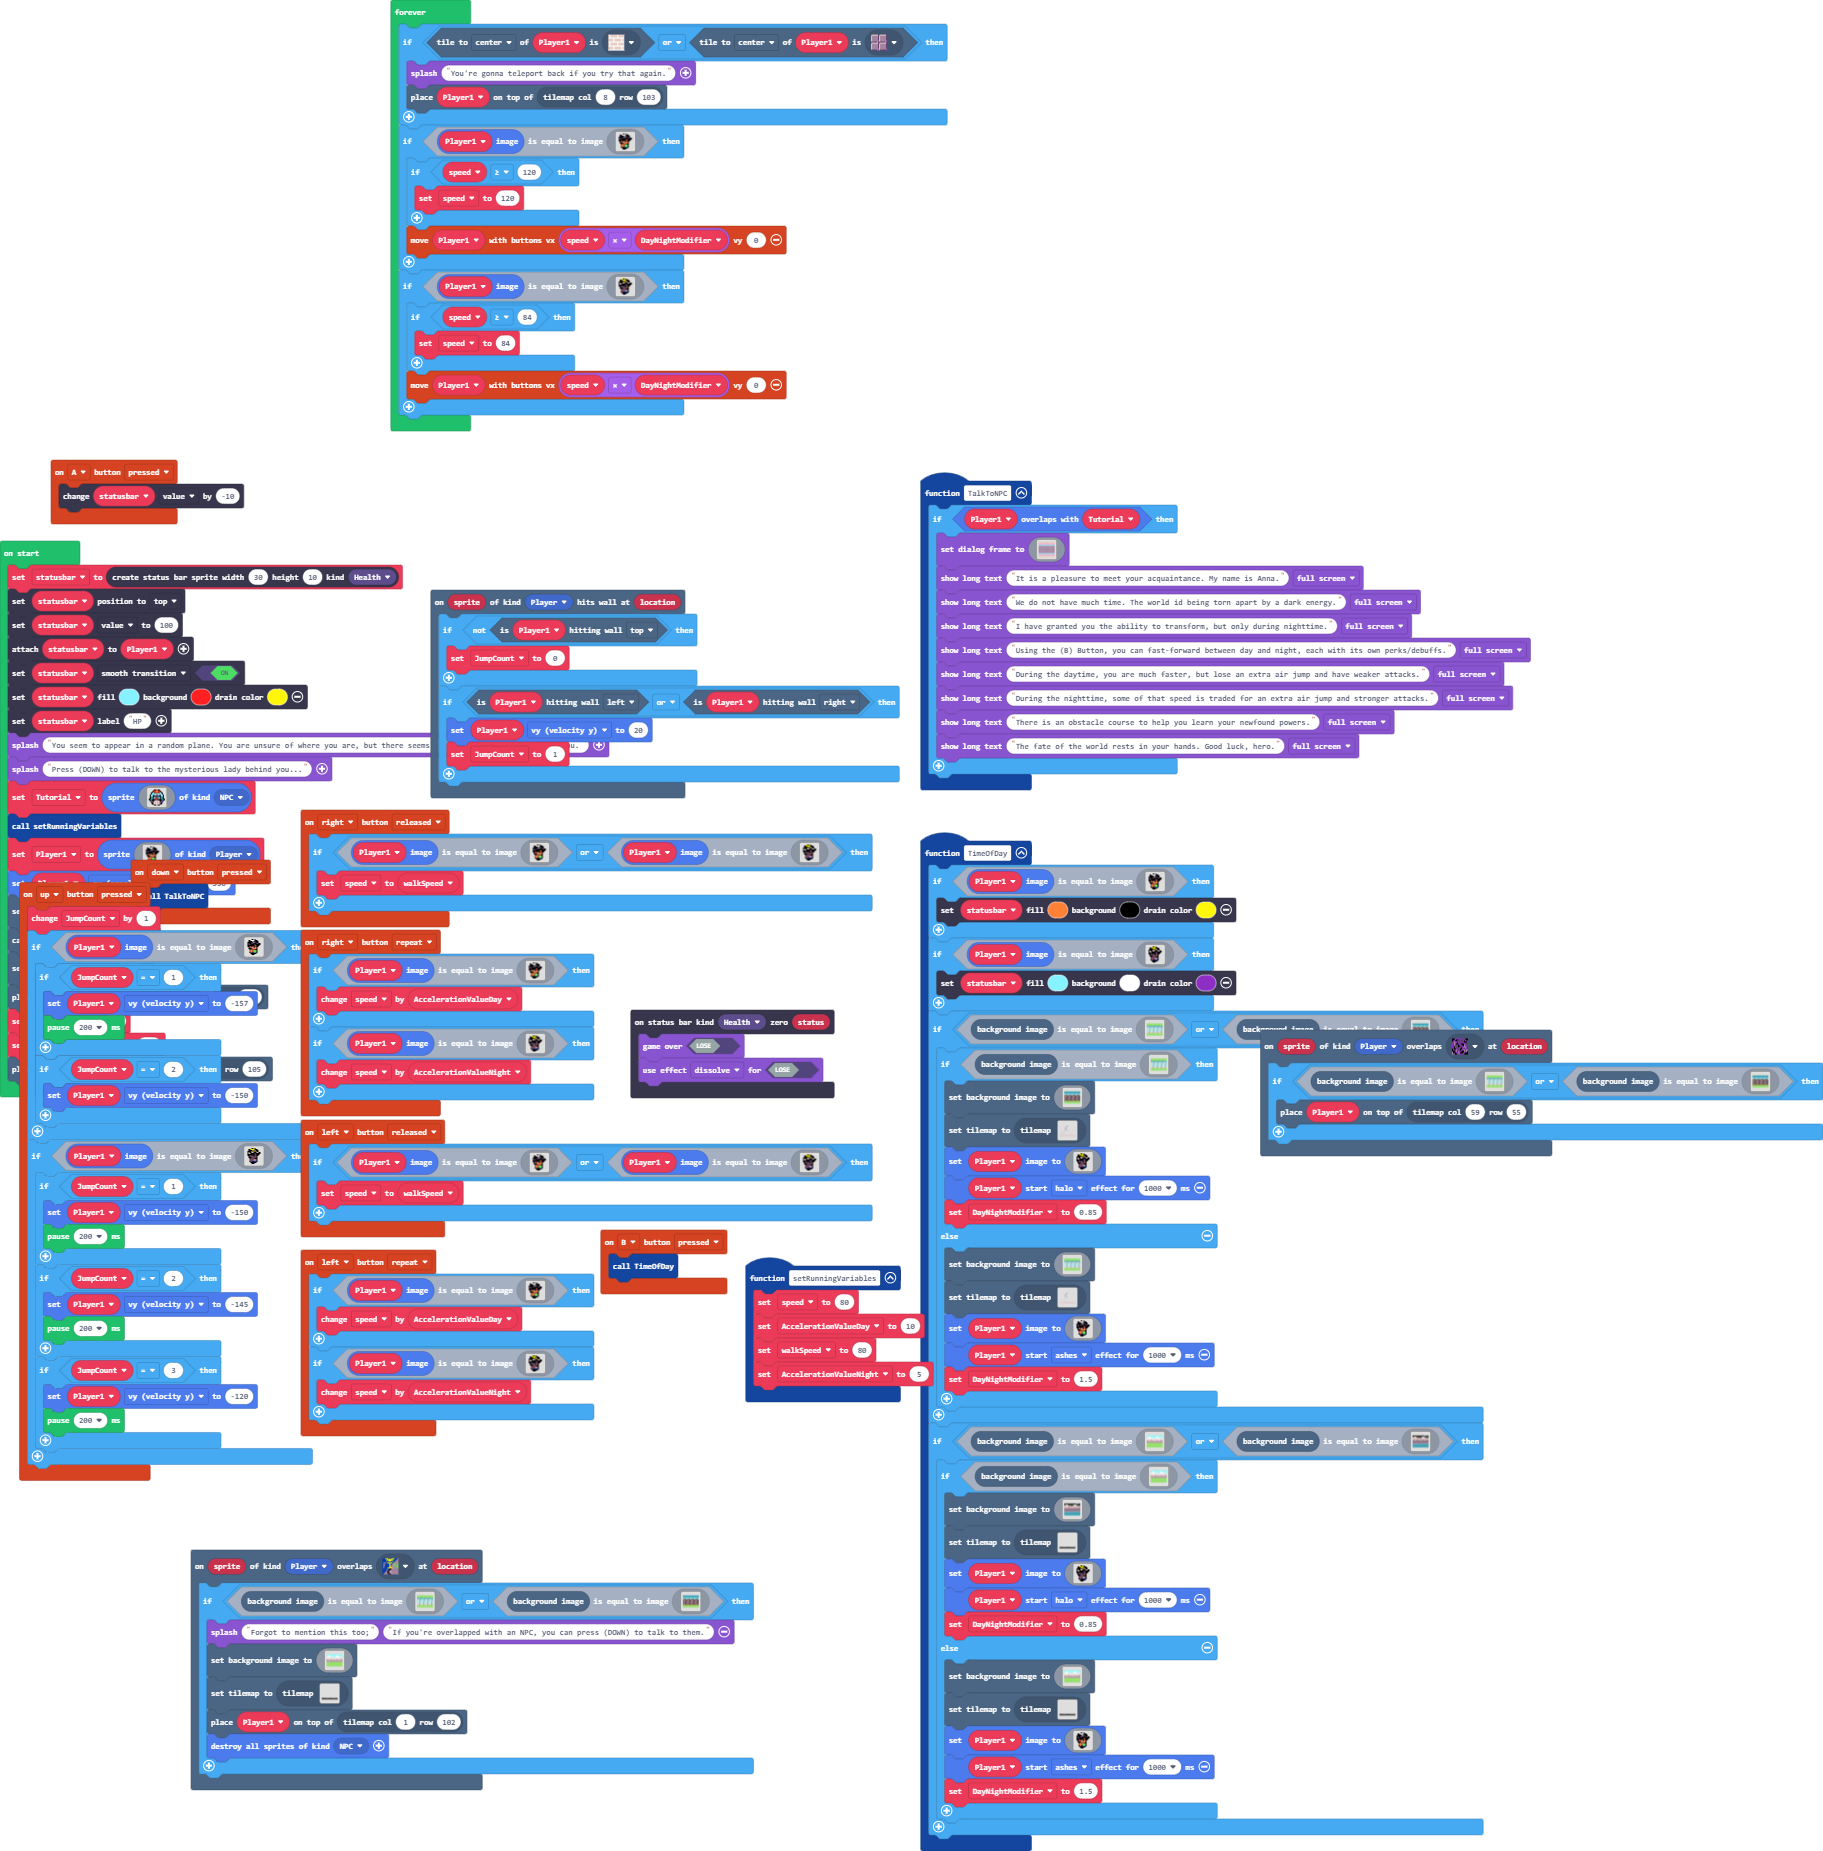
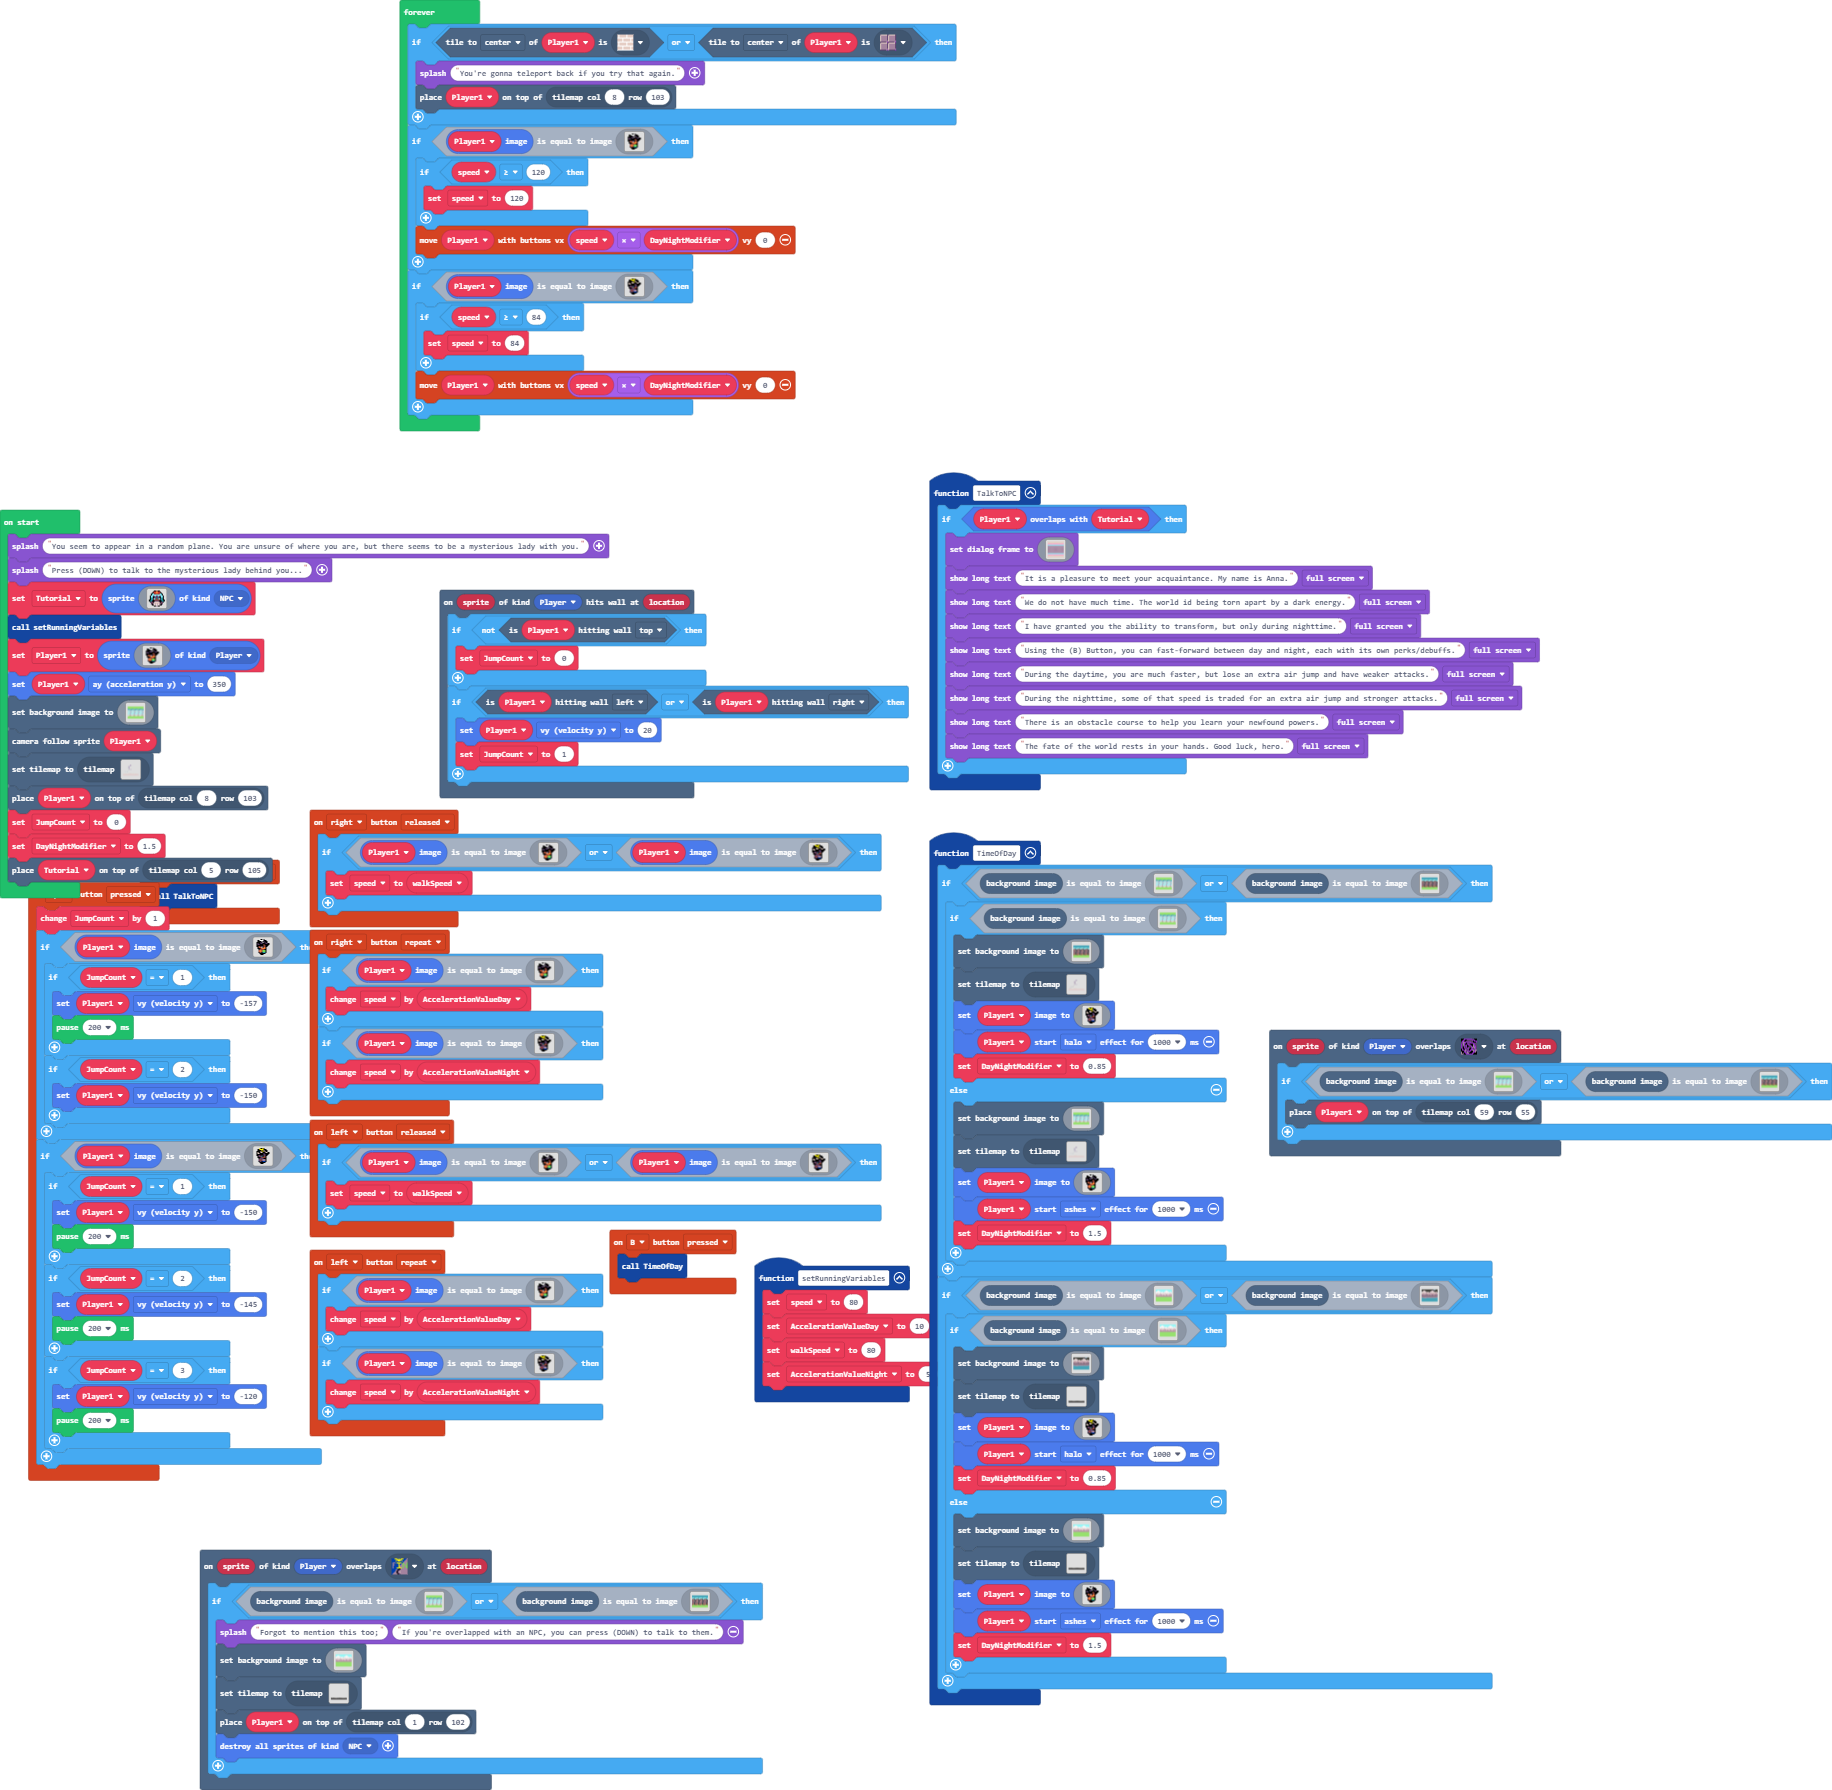
Restore '3/5/2024, 4:12:55 PM Update main.blocks, main.ts, tilemap.g.jres, tilemap.g.ts'

diff --git a/main.ts b/main.ts
@@ -40,12 +40,6 @@ controller.B.onEvent(ControllerButtonEvent.Pressed, function () {
     TimeOfDay()
 })
 function TimeOfDay () {
-    if (Player1.image.equals(assets.image`IdleDay1`)) {
-        statusbar.setColor(4, 15, 5)
-    }
-    if (Player1.image.equals(assets.image`IdleNight1`)) {
-        statusbar.setColor(9, 1, 10)
-    }
     if (scene.backgroundImage().equals(assets.image`ForegroundBG`) || scene.backgroundImage().equals(assets.image`BackgroundBG`)) {
         if (scene.backgroundImage().equals(assets.image`ForegroundBG`)) {
             scene.setBackgroundImage(assets.image`BackgroundBG`)
@@ -77,9 +71,6 @@ function TimeOfDay () {
         }
     }
 }
-controller.A.onEvent(ControllerButtonEvent.Pressed, function () {
-    statusbar.value += -10
-})
 controller.right.onEvent(ControllerButtonEvent.Repeated, function () {
     if (Player1.image.equals(assets.image`IdleDay1`)) {
         speed += AccelerationValueDay
@@ -106,10 +97,6 @@ controller.left.onEvent(ControllerButtonEvent.Released, function () {
     if (Player1.image.equals(assets.image`IdleDay1`) || Player1.image.equals(assets.image`IdleNight1`)) {
         speed = walkSpeed
     }
-})
-statusbars.onZero(StatusBarKind.Health, function (status) {
-    game.gameOver(false)
-    game.setGameOverEffect(false, effects.dissolve)
 })
 scene.onOverlapTile(SpriteKind.Player, assets.tile`PortalFG`, function (sprite, location) {
     if (scene.backgroundImage().equals(assets.image`ForegroundBG`) || scene.backgroundImage().equals(assets.image`BackgroundBG`)) {
@@ -152,16 +139,8 @@ let AccelerationValueDay = 0
 let speed = 0
 let DayNightModifier = 0
 let JumpCount = 0
-let Tutorial: Sprite = null
 let Player1: Sprite = null
-let statusbar: StatusBarSprite = null
-statusbar = statusbars.create(30, 10, StatusBarKind.Health)
-statusbar.positionDirection(CollisionDirection.Top)
-statusbar.value = 100
-statusbar.attachToSprite(Player1)
-statusbar.setStatusBarFlag(StatusBarFlag.SmoothTransition, true)
-statusbar.setColor(9, 2, 5)
-statusbar.setLabel("HP")
+let Tutorial: Sprite = null
 game.splash("You seem to appear in a random plane. You are unsure of where you are, but there seems to be a mysterious lady with you.")
 game.splash("Press (DOWN) to talk to the mysterious lady behind you...")
 Tutorial = sprites.create(assets.image`TutorialLady`, SpriteKind.NPC)
